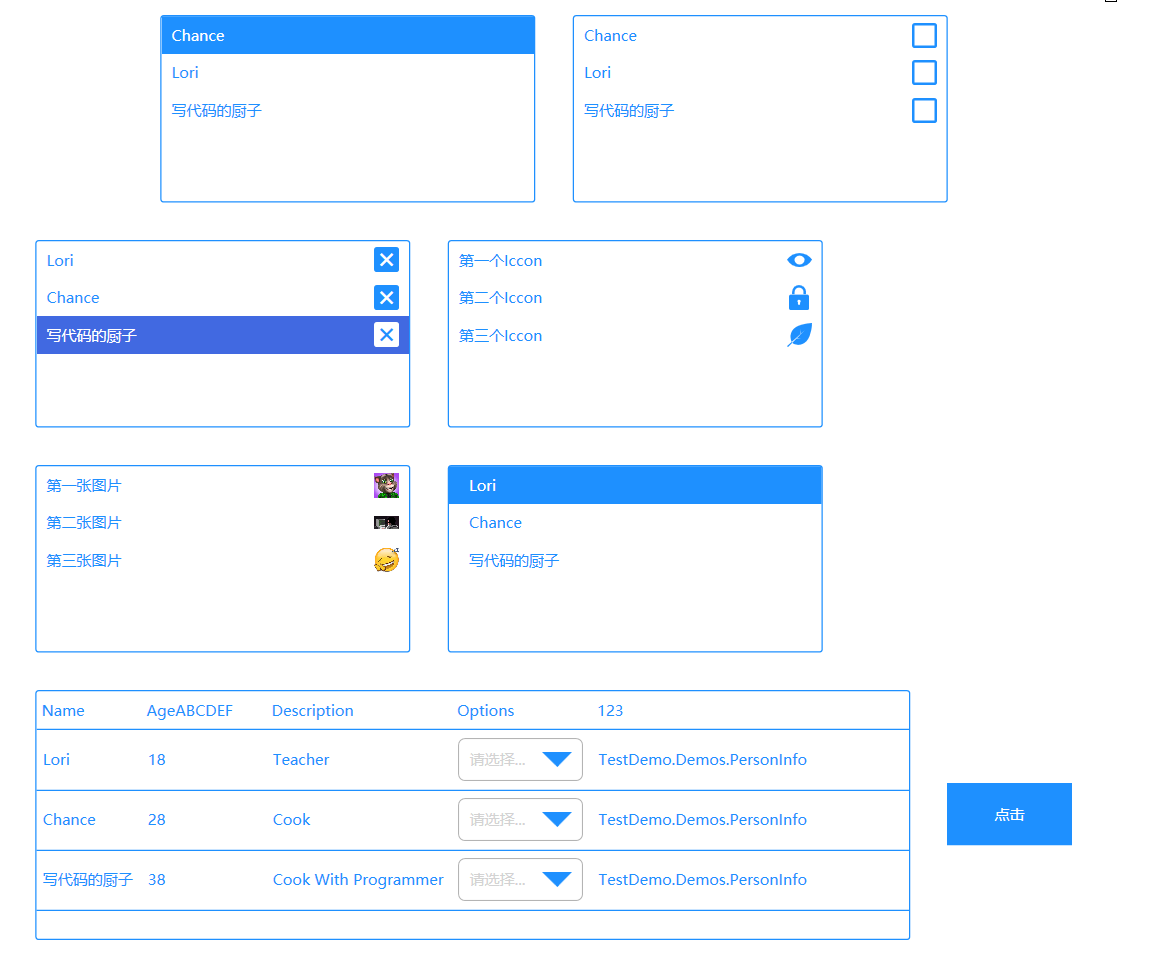
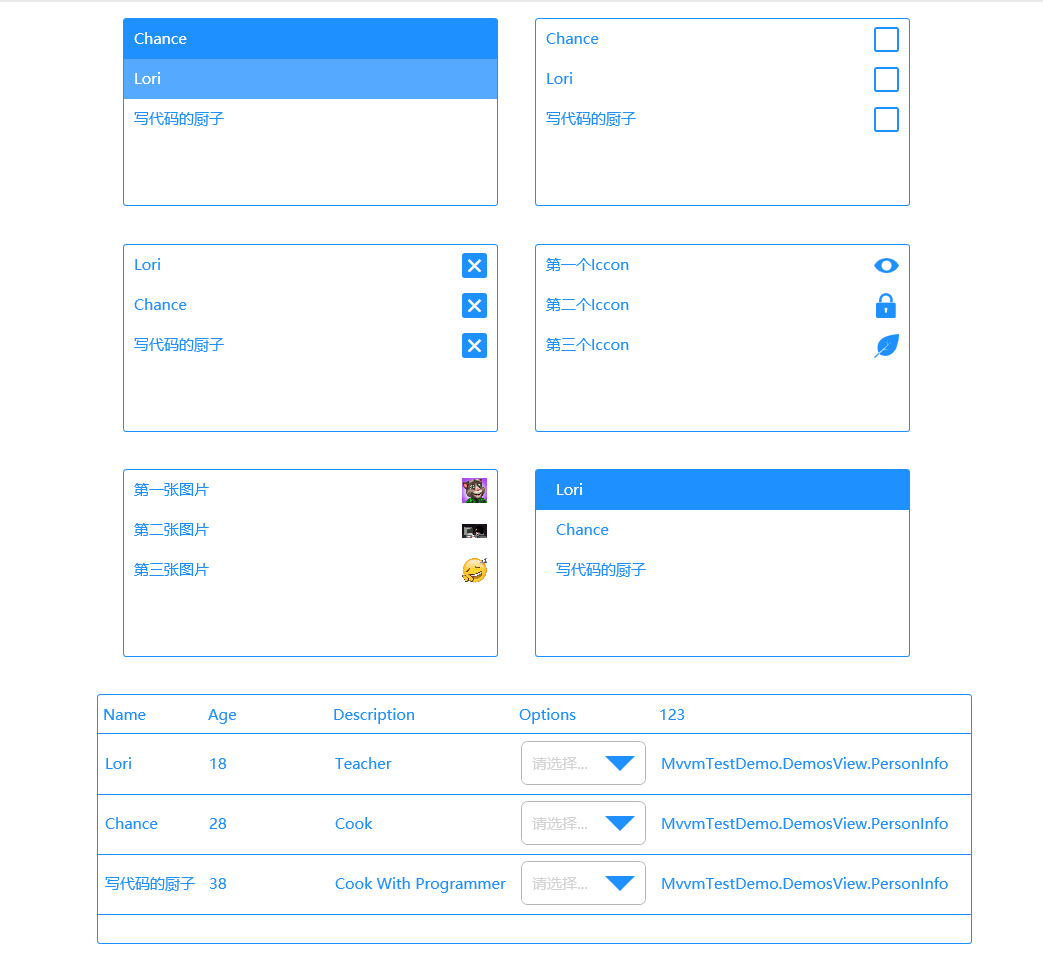
Update ReadMe

diff --git a/CookPopularControl/Themes/BaseStyle/ProgressBarBaseStyle.xaml b/CookPopularControl/Themes/BaseStyle/ProgressBarBaseStyle.xaml
@@ -42,14 +42,13 @@
                                 <VisualState x:Name="Indeterminate">
                                     <Storyboard x:Name="HorizontalStoryboard" RepeatBehavior="Forever">
                                         <PointAnimationUsingKeyFrames Storyboard.TargetProperty="(UIElement.RenderTransformOrigin)" Storyboard.TargetName="Animation">
-                                            <EasingPointKeyFrame KeyTime="0:0:0" Value="0.0,0.5"/>
-                                            <EasingPointKeyFrame KeyTime="0:0:2" Value="1,0.5"/>
+                                            <EasingPointKeyFrame KeyTime="0:0:0" Value="0,0.5"/>
+                                            <EasingPointKeyFrame KeyTime="0:0:2" Value="3,0.5"/>
                                         </PointAnimationUsingKeyFrames>
                                     </Storyboard>
                                 </VisualState>
                             </VisualStateGroup>
                         </VisualStateManager.VisualStateGroups>
-
                         <Grid>
                             <Border x:Name="border" Background="{TemplateBinding Background}" 
                                     BorderBrush="{TemplateBinding BorderBrush}" 
@@ -121,20 +120,28 @@
                         </Grid>
                     </Grid>
                     <ControlTemplate.Triggers>
-                        <DataTrigger Binding="{Binding RelativeSource={RelativeSource Self},Path=Value,Converter={toolsConverters:ValueBetweenZeroAnd100}}" Value="True">
+                        <MultiDataTrigger>
+                            <MultiDataTrigger.Conditions>
+                                <Condition Binding="{Binding RelativeSource={RelativeSource Self},Path=(assistant:LinearProgressBarAssistant.IsShowIcon)}" Value="True"/>
+                                <Condition Binding="{Binding RelativeSource={RelativeSource Self},Path=Value,Converter={toolsConverters:ValueBetweenZeroAnd100}}" Value="True"/>
+                            </MultiDataTrigger.Conditions>
                             <Setter Property="Visibility" Value="Visible" TargetName="IconLeaf"/>
-                            <DataTrigger.EnterActions>
+                            <MultiDataTrigger.EnterActions>
                                 <BeginStoryboard x:Name="AirFanStoryboard" Storyboard="{StaticResource AirFanStoryboard}"/>
-                            </DataTrigger.EnterActions>
-                        </DataTrigger>
-                        <DataTrigger Binding="{Binding RelativeSource={RelativeSource Self},Path=Value}" Value="100">
+                            </MultiDataTrigger.EnterActions>
+                            <MultiDataTrigger.ExitActions>
+                                <RemoveStoryboard BeginStoryboardName="AirFanStoryboard"/>
+                            </MultiDataTrigger.ExitActions>
+                        </MultiDataTrigger>
+                        <MultiDataTrigger>
+                            <MultiDataTrigger.Conditions>
+                                <Condition Binding="{Binding RelativeSource={RelativeSource Self},Path=(assistant:LinearProgressBarAssistant.IsShowIcon)}" Value="True"/>
+                                <Condition Binding="{Binding RelativeSource={RelativeSource Self},Path=Value}" Value="100"/>
+                            </MultiDataTrigger.Conditions>
                             <Setter Property="Visibility" Value="Collapsed" TargetName="IconGrid"/>
-                            <DataTrigger.EnterActions>
-                                <StopStoryboard BeginStoryboardName="AirFanStoryboard"/>
-                            </DataTrigger.EnterActions>
-                        </DataTrigger>
+                        </MultiDataTrigger>
                         <Trigger Property="IsEnabled" Value="false">
-                            <Setter Property="Background" Value="{DynamicResource UnEnabledBrush}" TargetName="border"></Setter>
+                            <Setter Property="Background" Value="{DynamicResource UnEnabledBrush}" TargetName="border"/>
                         </Trigger>
                         <Trigger Property="IsIndeterminate" Value="true">
                             <Setter Property="Width" Value="0.25*" TargetName="width1"></Setter>

diff --git a/CookPopularControl/Themes/BaseStyle/TabControlBaseStyle.xaml b/CookPopularControl/Themes/BaseStyle/TabControlBaseStyle.xaml
@@ -1,22 +1,27 @@
 <ResourceDictionary xmlns="http://schemas.microsoft.com/winfx/2006/xaml/presentation"
                     xmlns:x="http://schemas.microsoft.com/winfx/2006/xaml"
-                    xmlns:panel="clr-namespace:CookPopularControl.Controls.Panels"
-                    xmlns:attached="clr-namespace:CookPopularControl.Communal.Attached">
+                    xmlns:assistant="clr-namespace:CookPopularControl.Controls.TabControl"
+                    xmlns:attached="clr-namespace:CookPopularControl.Communal.Attached"
+                    xmlns:toolConverters="clr-namespace:CookPopularControl.Tools.Windows.Converters">
 
     <Style x:Key="TabItemStyle" TargetType="{x:Type TabItem}">
-        <Setter Property="Width" Value="72" />
-        <Setter Property="Height" Value="36" />
+        <Setter Property="MinHeight" Value="30" />
         <Setter Property="BorderBrush" Value="{DynamicResource PrimaryColorTheme}" />
         <Setter Property="BorderThickness" Value="0" />
         <Setter Property="Foreground" Value="{DynamicResource AssistantForeground}" />
         <Setter Property="Background" Value="{DynamicResource PrimaryColorTheme}" />
         <Setter Property="HorizontalContentAlignment" Value="Center" />
         <Setter Property="VerticalContentAlignment" Value="Center" />
+        <Setter Property="assistant:TabControlAssistant.IsAddClearButton" Value="{Binding RelativeSource={RelativeSource Mode=FindAncestor, AncestorType=TabControl},Path=(assistant:TabControlAssistant.IsAddClearButton)}" />
         <Setter Property="Template">
             <Setter.Value>
                 <ControlTemplate TargetType="{x:Type TabItem}">
-                    <panel:SimpleGrid x:Name="PART_Root" KeyboardNavigation.TabNavigation="Local">
-                        <Border x:Name="Border"
+                    <Grid x:Name="PART_Root" KeyboardNavigation.TabNavigation="Local">
+                        <Grid.ColumnDefinitions>
+                            <ColumnDefinition Width="*"/>
+                            <ColumnDefinition Width="30"/>
+                        </Grid.ColumnDefinitions>
+                        <Border Grid.Column="0" Padding="5"
                                 BorderBrush="{TemplateBinding BorderBrush}" 
                                 BorderThickness="{TemplateBinding BorderThickness}"
                                 Background="{TemplateBinding Background}" >
@@ -25,7 +30,12 @@
                                               HorizontalAlignment="{TemplateBinding HorizontalContentAlignment}"
                                               VerticalAlignment="{TemplateBinding VerticalContentAlignment}"/>
                         </Border>
-                    </panel:SimpleGrid>
+                        <Button x:Name="PART_CloseButton" Grid.Column="1" Background="{TemplateBinding Background}"
+                                attached:FrameworkElementBaseAttached.IconGeometry="{DynamicResource CloseGeometry}"
+                                attached:FrameworkElementBaseAttached.IconWidth="10"
+                                attached:FrameworkElementBaseAttached.IconHeight="10"
+                                Visibility="{TemplateBinding assistant:TabControlAssistant.IsAddClearButton,Converter={toolConverters:BooleanToVisibilityConverter}}"/>
+                    </Grid>
                     <ControlTemplate.Triggers>
                         <Trigger Property="IsMouseOver" Value="True">
                             <Setter Property="Background" Value="{DynamicResource ButtonBaseMouseOverBackground}" />
@@ -60,7 +70,7 @@
                                 </VisualState>
                             </VisualStateGroup>
                         </VisualStateManager.VisualStateGroups>
-                        <TabPanel x:Name="HeaderPanel"                                  
+                        <TabPanel x:Name="HeaderPanel"                         
                                   DockPanel.Dock="{TemplateBinding TabStripPlacement}"
                                   IsItemsHost="True" Panel.ZIndex="1"
                                   KeyboardNavigation.TabIndex="1"/>

diff --git a/CookPopularControl/Themes/BaseStyle/ListBoxItemBaseStyle.xaml b/CookPopularControl/Themes/BaseStyle/ListBoxItemBaseStyle.xaml
@@ -30,11 +30,11 @@
                                        Padding="{Binding RelativeSource={RelativeSource Mode=FindAncestor,AncestorType=ListBox},Path=Padding}"
                                        HorizontalAlignment="{TemplateBinding HorizontalContentAlignment}"
                                        VerticalAlignment="{TemplateBinding VerticalContentAlignment}"/>
-                            <Grid Grid.Column="0" x:Name="ItemGrid" HorizontalAlignment="Right" Margin="0,0,8,0"
+                            <Grid Grid.Column="0" x:Name="ItemGrid" HorizontalAlignment="Right" VerticalAlignment="Center" Margin="0,0,8,0"
                                   Width="{Binding RelativeSource={RelativeSource Mode=FindAncestor,AncestorType=ListBox},Path=(attached:SelectorAttached.ItemControlWidth)}"
                                   Height="{Binding RelativeSource={RelativeSource Mode=FindAncestor,AncestorType=ListBox},Path=(attached:SelectorAttached.ItemControlHeight)}">
                                 <CheckBox x:Name="ItemCheckBox" Focusable="True" Width="{Binding ElementName=ItemGrid,Path=Width}" Height="{Binding ElementName=ItemGrid,Path=Height}"
-                                          IsChecked="{Binding RelativeSource={RelativeSource TemplatedParent},Path=IsSelected,Mode=TwoWay}"
+                                          IsChecked="{Binding RelativeSource={RelativeSource TemplatedParent},Path=IsSelected,Mode=TwoWay}" Padding="5"
                                           Visibility="{Binding RelativeSource={RelativeSource Mode=FindAncestor,AncestorType=ListBox},Path=(attached:SelectorAttached.SelectorItemType),
                                                       Converter={commonConverters:SelectorItemTypeToVisibilityConverter},ConverterParameter=CheckBox}"/>
                                 <Button x:Name="ItemButton" Width="{Binding ElementName=ItemGrid,Path=Width}" Height="{Binding ElementName=ItemGrid,Path=Height}"
@@ -95,6 +95,8 @@
                             <Setter Property="Background" Value="{Binding RelativeSource={RelativeSource Mode=FindAncestor,AncestorType=ListBox},Path=(attached:SelectorAttached.ItemMouseOverBackground)}" TargetName="ItemBorder"/>
                         </Trigger>
                         <Trigger Property="IsSelected" Value="True">
+                            <Setter Property="BorderBrush" Value="{DynamicResource AssistantForeground}" TargetName="ItemCheckBox"/>
+                            
                             <Setter Property="Foreground" Value="{DynamicResource AssistantForeground}" />
                             <Setter Property="Background" Value="{Binding RelativeSource={RelativeSource Mode=FindAncestor,AncestorType=ListBox},Path=(attached:SelectorAttached.ItemsListBackground)}" TargetName="ItemBorder"/>
                         </Trigger>
@@ -108,7 +110,7 @@
                             <Setter Property="Background" Value="{Binding RelativeSource={RelativeSource Mode=FindAncestor,AncestorType=ListBox},Path=(attached:SelectorAttached.ItemSelectedBackground)}" TargetName="ItemBorder"/>
                         </MultiTrigger>
                         <Trigger Property="IsChecked" Value="True" SourceName="ItemCheckBox">
-                            <Setter Property="BorderThickness" Value="3" TargetName="ItemCheckBox"/>
+                            <Setter Property="BorderThickness" Value="2" TargetName="ItemCheckBox"/>
                         </Trigger>
                     </ControlTemplate.Triggers>
                 </ControlTemplate>

diff --git a/MvvmTestDemo/DemosView/ListsDemo.xaml b/MvvmTestDemo/DemosView/ListsDemo.xaml
@@ -10,7 +10,7 @@
              d:DataContext="{Binding RelativeSource={RelativeSource Self}}">
 
     <ScrollViewer>
-        <StackPanel HorizontalAlignment="Center" VerticalAlignment="Center">
+        <StackPanel HorizontalAlignment="Center" VerticalAlignment="Center" Width="{StaticResource DemosViewViewDefaultWidth}">
             <WrapPanel HorizontalAlignment="Center">
                 <ListBox Width="300" Height="150" SelectionMode="Single" SelectedIndex="0"
                          Style="{StaticResource DefaultListBoxStyle}">
@@ -25,14 +25,14 @@
                     <ListBoxItem Content="写代码的厨子"/>
                 </ListBox>
             </WrapPanel>
-            <WrapPanel Margin="0,30">
+            <WrapPanel HorizontalAlignment="Center" Margin="0,30" >
                 <ListBox Width="300" Height="150" SelectionMode="Single" ItemsSource="{Binding Lists}"
                          Style="{StaticResource ListBoxButtonStyle}"
                          pc:SelectorAttached.IsItemDelete="ListBox_IsItemDelete"/>
                 <ListBox Width="300" Height="150" SelectionMode="Single" ItemsSource="{Binding IconLists}"
                          Style="{StaticResource ListBoxIconStyle}" Margin="30,0"/>
             </WrapPanel>
-            <WrapPanel>
+            <WrapPanel HorizontalAlignment="Center">
                 <ListBox Width="300" Height="150" SelectionMode="Single" ItemsSource="{Binding ImageLists}"
                          Style="{StaticResource ListBoxImageStyle}"
                          pc:SelectorAttached.IsPreviewImage="True"/>
@@ -43,7 +43,7 @@
                     <ListViewItem Content="写代码的厨子"/>
                 </ListView>
             </WrapPanel>
-            <WrapPanel Margin="0,30">
+            <WrapPanel HorizontalAlignment="Center" Margin="0,30,0,0">
                 <ListView Width="700" Height="200" ItemsSource="{Binding PersonInfos}"
                           Style="{StaticResource ListViewGirdViewStyle}"
                           pc:SelectorAttached.ItemHeight="50"
@@ -51,7 +51,7 @@
                     <ListView.View>
                         <GridView>
                             <GridViewColumn Header="Name" DisplayMemberBinding="{Binding Name}"/>
-                            <GridViewColumn Header="AgeABCDEF" DisplayMemberBinding="{Binding Age}" Width="100"/>
+                            <GridViewColumn Header="Age" DisplayMemberBinding="{Binding Age}" Width="100"/>
                             <GridViewColumn Header="Description" DisplayMemberBinding="{Binding Description}"/>
                             <GridViewColumn Header="Options">
                                 <GridViewColumn.CellTemplate>
@@ -76,7 +76,6 @@
                         </GridView>
                     </ListView.View>
                 </ListView>
-                <Button Content="点击" Width="100" Height="50" Margin="30,0"/>
             </WrapPanel>
         </StackPanel>
     </ScrollViewer>

diff --git a/MvvmTestDemo/DemosView/ProgressBarDemo.xaml b/MvvmTestDemo/DemosView/ProgressBarDemo.xaml
@@ -16,19 +16,22 @@
             <StackPanel>
                 <Button Content="开始" Click="Button_Click" Width="50" Height="34" Margin="0,20"/>
                 <ProgressBar Width="500" Height="35" Value="{Binding Value,Mode=OneWay}"
-                             Style="{StaticResource AirFanLinearProgressBarStyle}"/>
-                <ProgressBar Width="500" Height="35" Value="50" Margin="0,20"
                              Style="{StaticResource DefaultProgressBarStyle}"/>
-                <ProgressBar Width="500" Height="35" Style="{StaticResource DefaultProgressBarStyle}" 
+                <ProgressBar Width="500" Height="35" Value="50"  Margin="0,20"
+                             Style="{StaticResource DefaultProgressBarStyle}"/>
+                <ProgressBar Width="500" Height="35" Value="{Binding Value,Mode=OneWay}"
+                             Style="{StaticResource AirFanLinearProgressBarStyle}"/>
+                <ProgressBar Width="500" Height="35" Style="{StaticResource DefaultProgressBarStyle}"  Margin="0,20"
                              IsIndeterminate="True" pc:FrameworkElementBaseAttached.CornerRadius="2"
                              pc:LinearProgressBarAssistant.IsShowPercent="False"/>
             </StackPanel>
             <StackPanel HorizontalAlignment="Left" Orientation="Horizontal">
-                <ProgressBar Width="35" Height="500" Value="{Binding Value,Mode=OneWay}"
-                             Orientation="Vertical" Margin="20,0"
-                             Style="{StaticResource AirFanLinearProgressBarStyle}"/>
-                <ProgressBar Width="35" Height="500" Value="50" Orientation="Vertical" 
+                <ProgressBar Width="35" Height="500" Value="{Binding Value,Mode=OneWay}" Orientation="Vertical" 
                              Style="{StaticResource DefaultProgressBarStyle}" />
+                <ProgressBar Width="35" Height="500" Value="50" Orientation="Vertical" Margin="20,0"
+                             Style="{StaticResource DefaultProgressBarStyle}"/>
+                <ProgressBar Width="35" Height="500" Value="{Binding Value,Mode=OneWay}" Orientation="Vertical"
+                             Style="{StaticResource AirFanLinearProgressBarStyle}"/>
                 <ProgressBar Width="35" Height="500" Orientation="Vertical" 
                              Style="{StaticResource DefaultProgressBarStyle}"
                              IsIndeterminate="True"  Margin="20,0"

diff --git a/MvvmTestDemo/DemosView/FieldsDemo.xaml b/MvvmTestDemo/DemosView/FieldsDemo.xaml
@@ -10,7 +10,7 @@
              DataContext="{Binding RelativeSource={RelativeSource Self}}">
 
     <ScrollViewer HorizontalScrollBarVisibility="Disabled">
-        <StackPanel VerticalAlignment="Center" HorizontalAlignment="Center" Width="800">
+        <StackPanel VerticalAlignment="Center" HorizontalAlignment="Center" Width="{StaticResource DemosViewViewDefaultWidth}">
             <TextBlock Text="TextBox:" FontSize="20" FontWeight="DemiBold" Margin="0,0,0,10"/>
             <WrapPanel>
                 <TextBox Width="300" Height="34" BorderThickness="1"
@@ -61,14 +61,14 @@
 
             <TextBlock Text="TextPath:" FontSize="20" FontWeight="DemiBold" Margin="0,30,0,10"/>
             <WrapPanel>
-                <TextBlock Text="CookPopularControl" FontSize="50" FontWeight="DemiBold" Foreground="DodgerBlue"/>
-                <pc:TextPath Width="500" Height="100" Text="写代码的厨子"/>
-                <pc:TextPath Width="500" Height="100" Text="写代码的厨子" Fill="Transparent"/>
-                <pc:TextPath Width="500" Height="100" Text="Chance" 
+                <TextBlock Text="CookPopularControl" FontSize="60" FontWeight="DemiBold" Foreground="DodgerBlue"/>
+                <pc:TextPath Width="380" Height="120" Text="写代码的厨子"/>
+                <pc:TextPath Width="380" Height="120" Text="写代码的厨子" Fill="Transparent" Margin="10,0"/>
+                <pc:TextPath Width="380" Height="120" Text="Chance" 
                              pc:TextPath.FillImageSource="../Resources/Gif/tomcat.jpg"
                              pc:TextPath.DrawingRec="0,0,20,20"
                              Style="{StaticResource FillImageTextPathStyle}"/>
-                <pc:TextPath Width="500" Height="100" Text="Chance" Stroke="Purple" StrokeThickness="2"
+                <pc:TextPath Width="380" Height="120" Text="Chance" Stroke="Purple" StrokeThickness="2" Margin="10,0"
                              pc:TextPath.DrawingRec="0,0,5,5"
                              pc:FrameworkElementBaseAttached.IconGeometry="{StaticResource LeafGeometry}"
                              Style="{StaticResource FillIconTextPathStyle}"/>

diff --git a/MvvmTestDemo/DemosView/NotifyDemo.xaml b/MvvmTestDemo/DemosView/NotifyDemo.xaml
@@ -9,8 +9,9 @@
              mc:Ignorable="d" x:Name="NotifyIcon"
              d:DesignHeight="450" d:DesignWidth="800">
 
-    <pc:SimpleGrid Width="800">
+    <pc:SimpleGrid Width="{StaticResource DemosViewViewDefaultWidth}">
         <StackPanel HorizontalAlignment="Center"  VerticalAlignment="Center">
+            <TextBlock Width="200" Height="34" Text="NotifyIcon:" FontSize="20" FontWeight="DemiBold" HorizontalAlignment="Left"/>
             <pc:TaskbarIcon x:Name="DefaultNotifyIcon" Visibility="Collapsed"
                             IsStartTaskbarFlash="True"
                             ToolTipText="CookPopularControl" 
@@ -48,6 +49,7 @@
                 </StackPanel>
             </StackPanel>
 
+            <TextBlock Width="200" Height="34" Text="BubbleMessage:" FontSize="20" FontWeight="DemiBold" HorizontalAlignment="Left"/>
             <WrapPanel>
                 <Button x:Name="ShowInfoBubbleMessage" Content="ShowInfoBubbleMessage" Width="200" Height="35" Click="OpenBubbleMessage_Click"/>
                 <Button x:Name="ShowWarningBubbleMessage"  Content="ShowWarningBubbleMessage" Width="200" Height="35" Click="OpenBubbleMessage_Click" Margin="10,0"/>
@@ -58,7 +60,8 @@
             </WrapPanel>
             <Button Content="OpenBubbleMessageNewWindow" Width="220" Height="35" Click="OpenNewWindow_Click"/>
 
-            <WrapPanel HorizontalAlignment="Center" Margin="0,30">
+            <TextBlock Width="200" Height="34" Text="PopupMessage:" FontSize="20" FontWeight="DemiBold" HorizontalAlignment="Left" Margin="0,30,0,0"/>
+            <WrapPanel HorizontalAlignment="Center">
                 <Button x:Name="OpenPopupMessageNone" Content="OpenPopupMessageNone" Width="220" Height="35" Click="OpenPopupMessage_Click"/>
                 <Button x:Name="OpenPopupMessageFade" Content="OpenPopupMessageFade" Width="220" Height="35" Click="OpenPopupMessage_Click" Margin="10,0"/>
                 <Button x:Name="OpenPopupMessageHorizontalSlide" Content="OpenPopupMessageHorizontalSlide" Width="220" Height="35" Click="OpenPopupMessage_Click"/>

diff --git a/MvvmTestDemo/DemosView/MessageDialogDemo.xaml b/MvvmTestDemo/DemosView/MessageDialogDemo.xaml
@@ -7,14 +7,14 @@
              mc:Ignorable="d" 
              d:DesignHeight="450" d:DesignWidth="800">
 
-    <WrapPanel HorizontalAlignment="Center" VerticalAlignment="Center">
+    <WrapPanel HorizontalAlignment="Center" VerticalAlignment="Center" Width="{StaticResource DemosViewViewDefaultWidth}">
         <Button Content="ShowMessageDialogSuccess" Width="200" Height="34" Click="Button_Click" />
-        <Button Content="ShowMessageDialogInfo" Width="200" Height="34" Click="Button_Click" Margin="50"/>
+        <Button Content="ShowMessageDialogInfo" Width="200" Height="34" Click="Button_Click" Margin="30,0"/>
         <Button Content="ShowMessageDialogWarning" Width="200" Height="34" Click="Button_Click"/>
-        <Button Content="ShowMessageDialogError" Width="200" Height="34" Click="Button_Click" Margin="30"/>
-        <Button Content="ShowMessageDialogFatal" Width="200" Height="34" Click="Button_Click" />
-        <Button Content="ShowMessageDialogQuestion" Width="200" Height="34" Click="Button_Click" Margin="50"/>
-        <Button Content="ShowMessageDialogCustom" Width="200" Height="34" Click="Button_Click" />
+        <Button Content="ShowMessageDialogError" Width="200" Height="34" Click="Button_Click" Margin="0,30"/>
+        <Button Content="ShowMessageDialogFatal" Width="200" Height="34" Click="Button_Click" Margin="30,0"/>
+        <Button Content="ShowMessageDialogQuestion" Width="200" Height="34" Click="Button_Click"/>
+        <Button Content="ShowMessageDialogCustom" Width="200" Height="34" Click="Button_Click"/>
     </WrapPanel>
 
 </UserControl>

diff --git a/MvvmTestDemo/DemosView/DataGridDemo.xaml b/MvvmTestDemo/DemosView/DataGridDemo.xaml
@@ -24,7 +24,7 @@
     <ScrollViewer>
         <StackPanel Width="{StaticResource DemosViewViewDefaultWidth}">
             <Button Content="添加" Width="100" Height="34" Click="Button_Click" Margin="0,20"/>
-            <DataGrid Width="800" Height="500" ItemsSource="{Binding Workers}" BorderThickness="2"
+            <DataGrid Width="800" Height="400" ItemsSource="{Binding Workers}" BorderThickness="2"
                       Foreground="Purple" BorderBrush="Green" 
                       RowBackground="FloralWhite" AlternatingRowBackground="NavajoWhite" Background="#F8F9FA"
                       AutoGenerateColumns="False" AreRowDetailsFrozen="False" FontSize="16"
@@ -41,7 +41,7 @@
                     <DataGridTextColumn Header="部门" Binding="{Binding Department}"/>
                 </DataGrid.Columns>
             </DataGrid>
-            <DataGrid Width="600" Height="500" ItemsSource="{Binding Workers}"  Margin="0,20" 
+            <DataGrid Width="600" Height="400" ItemsSource="{Binding Workers}"  Margin="0,20" 
                       AutoGenerateColumns="False" AreRowDetailsFrozen="False" FontSize="16"
                       CanUserAddRows="False" CanUserDeleteRows="False" CanUserReorderColumns="True" IsReadOnly="True"  
                       pc:DataGridAssistant.IsShowThickness="True"

diff --git a/MvvmTestDemo/UserControls/AdornerDemo.xaml b/MvvmTestDemo/UserControls/AdornerDemo.xaml
@@ -1,13 +1,13 @@
-<UserControl x:Class="MvvmTestDemo.DemosView.AdornerDemo"
+<UserControl x:Class="MvvmTestDemo.UserControls.AdornerDemo"
              xmlns="http://schemas.microsoft.com/winfx/2006/xaml/presentation"
              xmlns:x="http://schemas.microsoft.com/winfx/2006/xaml"
              xmlns:mc="http://schemas.openxmlformats.org/markup-compatibility/2006" 
              xmlns:d="http://schemas.microsoft.com/expression/blend/2008" 
              xmlns:local="clr-namespace:MvvmTestDemo.DemosView"
              xmlns:pc="https://Chance.CookPopularControl/2021/xaml"
-             mc:Ignorable="d" x:Name="RootDecorator" Background="OliveDrab"
+             mc:Ignorable="d" x:Name="RootDecorator" Background="#FF9C8844"
              d:DesignHeight="450" d:DesignWidth="800" Focusable="True"
-             Width="500" Height="500">
+             Width="400" Height="400">
 
     <StackPanel x:Name="RootGrid" VerticalAlignment="Center">
         <Button x:Name="ChanceBtn" Content="Chance" Width="300" Height="40"/>

diff --git a/CookPopularControl/Themes/ListBoxStyle.xaml b/CookPopularControl/Themes/ListBoxStyle.xaml
@@ -10,7 +10,9 @@
     <Style x:Key="DefaultListBoxStyle" TargetType="{x:Type ListBox}" BasedOn="{StaticResource ListBoxBaseStyle}">
         <Setter Property="attached:FrameworkElementBaseAttached.CornerRadius" Value="2" />
         <Setter Property="attached:SelectorAttached.SelectorItemType" Value="Default" />
-        <Setter Property="attached:SelectorAttached.ItemHeight" Value="30" />
+        <Setter Property="attached:SelectorAttached.ItemControlWidth" Value="20" />
+        <Setter Property="attached:SelectorAttached.ItemControlHeight" Value="20" />
+        <Setter Property="attached:SelectorAttached.ItemHeight" Value="32" />
         <Setter Property="attached:SelectorAttached.ItemsListBackground" Value="{DynamicResource PrimaryColorTheme}" />
         <Setter Property="attached:SelectorAttached.ItemMouseOverBackground" Value="{DynamicResource ButtonBaseMouseOverBackground}" />
         <Setter Property="attached:SelectorAttached.ItemSelectedBackground" Value="{DynamicResource ButtonBasePressBackground}" />

diff --git a/MvvmTestDemo/DemosView/TabControlDemo.xaml b/MvvmTestDemo/DemosView/TabControlDemo.xaml
@@ -10,9 +10,9 @@
     <ScrollViewer>
         <WrapPanel HorizontalAlignment="Center" VerticalAlignment="Center">
             <TabControl Width="300" Height="300" Style="{StaticResource DefaultTabControlStyle}"
-                    TabStripPlacement="Left" HorizontalAlignment="Left"
-                    Foreground="#FFFFFF" Background="{StaticResource BlockBrush}">
-                <TabItem Header="First">第一个页面</TabItem>
+                        TabStripPlacement="Left" HorizontalAlignment="Left"
+                        Foreground="#FFFFFF" Background="{StaticResource BlockBrush}">
+                <TabItem Header="First11111111111">第一个页面</TabItem>
                 <TabItem Header="Second">第二个页面</TabItem>
                 <TabItem Header="Third">第三个页面</TabItem>
                 <TabItem Header="Fourth">第四个页面</TabItem>
